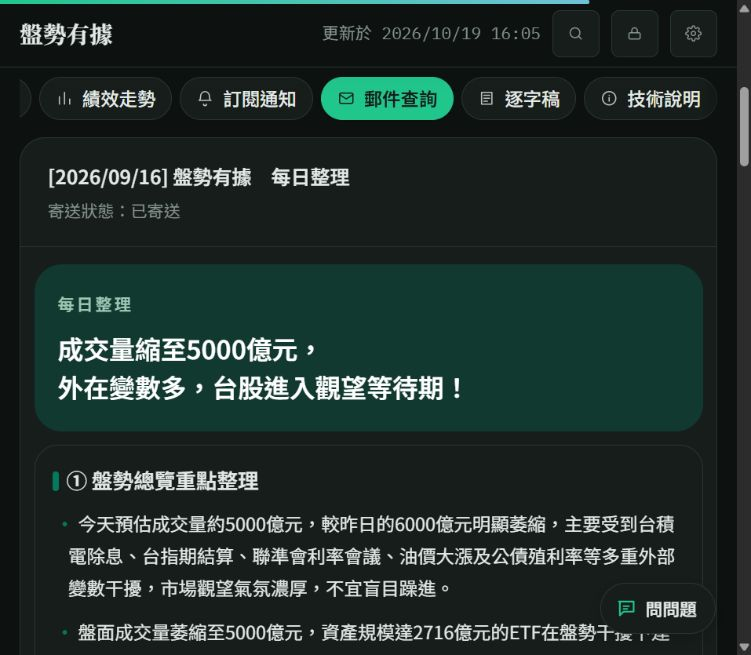
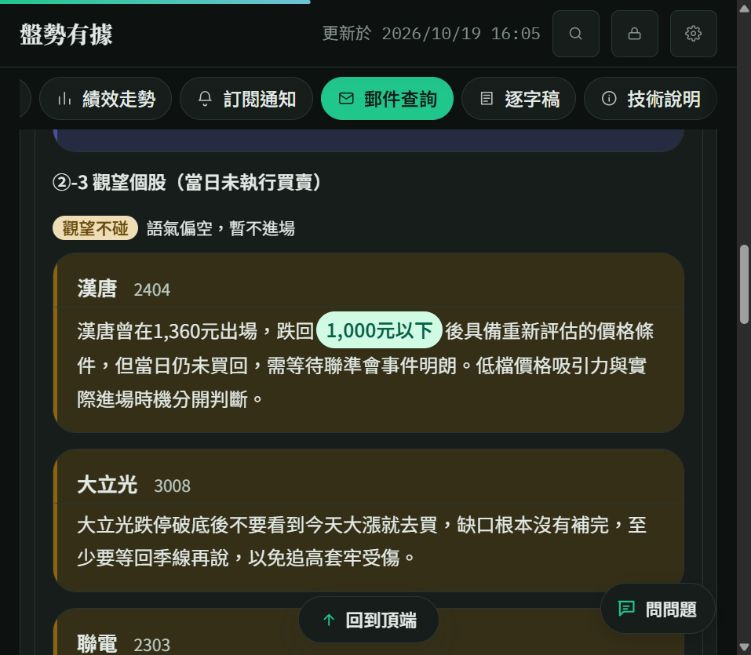
docs: record production source repairs and chapter acceptance evidence

diff --git a/public-site/gas-source/Tech.html b/public-site/gas-source/Tech.html
@@ -423,7 +423,7 @@
 <p>2026/10/19兩次重播都通過既有程式關卡，仍發現跨公司引用、把ETF資產規模掛到個股，以及漏收有原文支持的條件。因此沒有直接套用這兩輪生成結果；網站更新另走來源綁定、備份與讀回流程。</p>
 <ul class="quality-checks"><li><svg aria-hidden="true" viewbox="0 0 24 24"><path d="M5 12l4 4L19 6" fill="none" stroke="currentColor" stroke-width="2"></path><circle cx="12" cy="12" fill="none" r="10" stroke="currentColor" stroke-width="1.5"></circle></svg><span><b>已落實：新舊資料共用分類邊界</b>今天已買、歷史賣出、剩餘部位及目前能否進場分開；只使用目標日當時可取得的資訊。沒有答案時先建立待覆核參考，不冒稱人類金標。</span></li><li><svg aria-hidden="true" viewbox="0 0 24 24"><path d="M5 12l4 4L19 6" fill="none" stroke="currentColor" stroke-width="2"></path><circle cx="12" cy="12" fill="none" r="10" stroke="currentColor" stroke-width="1.5"></circle></svg><span><b>已驗證：修復本身可以追查</b>這次9/23修正5筆、9/16修正7筆，先備份，再按原稿與舊值指紋更新；通知交易與寄送帳本不變。</span></li><li><svg aria-hidden="true" viewbox="0 0 24 24"><path d="M5 12l4 4L19 6" fill="none" stroke="currentColor" stroke-width="2"></path><circle cx="12" cy="12" fill="none" r="10" stroke="currentColor" stroke-width="1.5"></circle></svg><span><b>仍需改善：每則主張的公司歸屬</b>引句、數字或股名在全文出現，仍不足以證明它們屬於同一檔。未通過保留日測試的流程候選不合併；來源修復不能算成自動分類準確率。</span></li></ul>
 <p class="quality-note">歷史資料可以回歸測試，也可以更正已發布的錯誤；若分類政策已變，保留原標註版本與變更理由，不把新答案倒灌成舊測試本來就正確。已寄出的郵件是當時快照，更新網站不會自動重寄。</p>
-<div class="src-cards"><div class="src-cards-row"><a class="src-card" data-source-kind="執行紀錄" href="https://github.com/Lee200202/Stock/actions/runs/39220214012" rel="noopener" target="_blank"><svg aria-hidden="true" class="source-icon" viewbox="0 0 24 24"><path d="M6 3h8l4 4v14H6zM14 3v4h4M9 12h6M9 16h4" fill="none" stroke="currentColor" stroke-width="1.8"></path></svg><span class="src-txt"><b>9/23唯讀模型重播</b><small>執行紀錄 · github.com</small></span><span aria-hidden="true" class="source-go">↗</span></a><a class="src-card" data-source-kind="執行紀錄" href="https://github.com/Lee200202/Stock/actions/runs/39220579304" rel="noopener" target="_blank"><svg aria-hidden="true" class="source-icon" viewbox="0 0 24 24"><path d="M6 3h8l4 4v14H6zM14 3v4h4M9 12h6M9 16h4" fill="none" stroke="currentColor" stroke-width="1.8"></path></svg><span class="src-txt"><b>9/16唯讀模型重播</b><small>執行紀錄 · github.com</small></span><span aria-hidden="true" class="source-go">↗</span></a><a class="src-card" data-source-kind="文件" href="https://github.com/Lee200202/Stock/blob/main/docs/stock-skills/evaluation/2026-10-19-annotation-guide/測試差異與判斷依據.md" rel="noopener" target="_blank"><svg aria-hidden="true" class="source-icon" viewbox="0 0 24 24"><path d="M6 3h8l4 4v14H6zM14 3v4h4M9 12h6M9 16h4" fill="none" stroke="currentColor" stroke-width="1.8"></path></svg><span class="src-txt"><b>判斷標準與實測差異</b><small>文件 · github.com</small></span><span aria-hidden="true" class="source-go">↗</span></a><a class="src-card" data-source-kind="執行紀錄" href="https://github.com/Lee200202/Stock/actions/runs/39221497539" rel="noopener" target="_blank"><svg aria-hidden="true" class="source-icon" viewbox="0 0 24 24"><path d="M6 3h8l4 4v14H6zM14 3v4h4M9 12h6M9 16h4" fill="none" stroke="currentColor" stroke-width="1.8"></path></svg><span class="src-txt"><b>兩日來源修正與驗收</b><small>執行紀錄 · github.com</small></span><span aria-hidden="true" class="source-go">↗</span></a></div></div><nav aria-label="章節前後導覽" class="book-pager"><a data-book-link="" href="#tech-public-notes"><span>上一章</span><b>公開說明與核對</b></a><button aria-haspopup="dialog" data-open-contents="" type="button">第15／20章 · 目錄</button><a data-book-link="" href="#tech-transcript-progress"><span>下一章</span><b>原稿版本與續跑</b></a></nav></section><section class="tech-section book-chapter" data-chapter="16" id="tech-transcript-progress"><header class="book-heading"><p class="book-eyebrow">16 / 20　原稿版本與續跑</p><h2 data-content-id="tc-0397" data-toc="原稿版本與續跑" id="book-title-16" tabindex="-1">新稿來了，舊工單會不會蓋回去？</h2></header><figure class="book-stage" data-scene="version"><button aria-haspopup="dialog" aria-label="放大圖解：原稿版本與續跑" class="book-visual-open" data-art="tech-transcript-progress" type="button"><svg aria-label="原稿指紋與工作進度綁定，舊工單不能覆蓋新稿" class="book-art" data-illustration="bespoke" data-mobile-viewbox="0 0 480 1000" role="img" viewbox="0 0 960 650" xmlns="http://www.w3.org/2000/svg"><rect fill="#e6eee7" height="650" rx="26" width="960"></rect><path d="M230 170Q350 170 433 280" data-book-path="0" data-mobile-d="M230 140H450V320Q450 350 320 350" fill="none" stroke="#54836a" stroke-dasharray="7 8" stroke-width="3"></path><path d="M550 280Q700 170 740 170" data-book-path="1" data-mobile-d="M230 440H25V640Q25 670 150 670" fill="none" stroke="#54836a" stroke-dasharray="7 8" stroke-width="3"></path><g data-book-node="0" data-mobile-transform="translate(140,140)" transform="translate(170,170)"><path class="bk-node-bg" d="M-58-77H28L60-45V77H-58Z" fill="#f9fcf9" stroke="#286947" stroke-width="3"></path><path d="M28-77v33h32M-35-20h69M-35 5h69M-35 30h69M-35 55h42" fill="none" stroke="#286947" stroke-linecap="round" stroke-linejoin="round" stroke-width="3"></path><text fill="#16462e" font-family="system-ui,sans-serif" font-size="25" text-anchor="middle" x="0" y="112">原稿版本 A</text><text fill="#37634b" font-family="system-ui,sans-serif" font-size="21" text-anchor="middle" x="0" y="148">保存來源指紋</text></g><g data-book-node="1" data-mobile-transform="translate(320,440)" transform="translate(490,330)"><rect class="bk-node-bg" fill="#f9fcf9" height="79" rx="14" stroke="#286947" stroke-width="3" width="114" x="-57" y="-5"></rect><path d="M-34-5v-31a34 34 0 0 1 68 0v31M0 20v27" fill="none" stroke="#286947" stroke-linecap="round" stroke-linejoin="round" stroke-width="3"></path><text fill="#16462e" font-family="system-ui,sans-serif" font-size="25" text-anchor="middle" x="0" y="112">寫入前再比對</text><text fill="#37634b" font-family="system-ui,sans-serif" font-size="21" text-anchor="middle" x="0" y="148">版本不同就停止覆寫</text></g><g data-book-node="2" data-mobile-transform="translate(150,760)" transform="translate(800,170)"><path class="bk-node-bg" d="M-58-77H28L60-45V77H-58Z" fill="#f9fcf9" stroke="#286947" stroke-width="3"></path><path d="M28-77v33h32M-35-20h69M-35 5h69M-35 30h69M-35 55h42" fill="none" stroke="#286947" stroke-linecap="round" stroke-linejoin="round" stroke-width="3"></path><text fill="#16462e" font-family="system-ui,sans-serif" font-size="25" text-anchor="middle" x="0" y="112">新版原稿 B</text><text fill="#37634b" font-family="system-ui,sans-serif" font-size="21" text-anchor="middle" x="0" y="148">使用自己的進度</text></g><circle class="book-packet" fill="#bd5934" opacity="0" r="9" stroke="white" stroke-width="3"></circle></svg><span class="book-enlarge">放大圖解 <svg aria-hidden="true" viewbox="0 0 24 24"><path d="M12 5v14M5 12h14" fill="none" stroke="currentColor" stroke-width="2"></path></svg></span></button><figcaption><b>原稿指紋不一樣，舊結果不能寫回</b><ol class="book-scene-key"><li>原稿 A</li><li>檢查點</li><li>原稿 B</li></ol><div class="book-motion" hidden=""><button data-book-pause="" type="button">暫停圖解</button><button data-book-replay="" type="button">再播圖解</button></div></figcaption></figure><span class="book-alias" id="toc-10"></span>
+<div class="src-cards"><div class="src-cards-row"><a class="src-card" data-source-kind="執行紀錄" href="https://github.com/Lee200202/Stock/actions/runs/39220214012" rel="noopener" target="_blank"><svg aria-hidden="true" class="source-icon" viewbox="0 0 24 24"><path d="M6 3h8l4 4v14H6zM14 3v4h4M9 12h6M9 16h4" fill="none" stroke="currentColor" stroke-width="1.8"></path></svg><span class="src-txt"><b>9/23唯讀模型重播</b><small>執行紀錄 · github.com</small></span><span aria-hidden="true" class="source-go">↗</span></a><a class="src-card" data-source-kind="執行紀錄" href="https://github.com/Lee200202/Stock/actions/runs/39220579304" rel="noopener" target="_blank"><svg aria-hidden="true" class="source-icon" viewbox="0 0 24 24"><path d="M6 3h8l4 4v14H6zM14 3v4h4M9 12h6M9 16h4" fill="none" stroke="currentColor" stroke-width="1.8"></path></svg><span class="src-txt"><b>9/16唯讀模型重播</b><small>執行紀錄 · github.com</small></span><span aria-hidden="true" class="source-go">↗</span></a><a class="src-card" data-source-kind="文件" href="https://github.com/Lee200202/Stock/blob/main/docs/stock-skills/evaluation/2026-10-19-annotation-guide/測試差異與判斷依據.md" rel="noopener" target="_blank"><svg aria-hidden="true" class="source-icon" viewbox="0 0 24 24"><path d="M6 3h8l4 4v14H6zM14 3v4h4M9 12h6M9 16h4" fill="none" stroke="currentColor" stroke-width="1.8"></path></svg><span class="src-txt"><b>判斷標準與實測差異</b><small>文件 · github.com</small></span><span aria-hidden="true" class="source-go">↗</span></a><a class="src-card" data-source-kind="執行紀錄" href="https://github.com/Lee200202/Stock/actions/runs/39221497539" rel="noopener" target="_blank"><svg aria-hidden="true" class="source-icon" viewbox="0 0 24 24"><path d="M6 3h8l4 4v14H6zM14 3v4h4M9 12h6M9 16h4" fill="none" stroke="currentColor" stroke-width="1.8"></path></svg><span class="src-txt"><b>9/16來源修正與驗收</b><small>執行紀錄 · github.com</small></span><span aria-hidden="true" class="source-go">↗</span></a></div></div><nav aria-label="章節前後導覽" class="book-pager"><a data-book-link="" href="#tech-public-notes"><span>上一章</span><b>公開說明與核對</b></a><button aria-haspopup="dialog" data-open-contents="" type="button">第15／20章 · 目錄</button><a data-book-link="" href="#tech-transcript-progress"><span>下一章</span><b>原稿版本與續跑</b></a></nav></section><section class="tech-section book-chapter" data-chapter="16" id="tech-transcript-progress"><header class="book-heading"><p class="book-eyebrow">16 / 20　原稿版本與續跑</p><h2 data-content-id="tc-0397" data-toc="原稿版本與續跑" id="book-title-16" tabindex="-1">新稿來了，舊工單會不會蓋回去？</h2></header><figure class="book-stage" data-scene="version"><button aria-haspopup="dialog" aria-label="放大圖解：原稿版本與續跑" class="book-visual-open" data-art="tech-transcript-progress" type="button"><svg aria-label="原稿指紋與工作進度綁定，舊工單不能覆蓋新稿" class="book-art" data-illustration="bespoke" data-mobile-viewbox="0 0 480 1000" role="img" viewbox="0 0 960 650" xmlns="http://www.w3.org/2000/svg"><rect fill="#e6eee7" height="650" rx="26" width="960"></rect><path d="M230 170Q350 170 433 280" data-book-path="0" data-mobile-d="M230 140H450V320Q450 350 320 350" fill="none" stroke="#54836a" stroke-dasharray="7 8" stroke-width="3"></path><path d="M550 280Q700 170 740 170" data-book-path="1" data-mobile-d="M230 440H25V640Q25 670 150 670" fill="none" stroke="#54836a" stroke-dasharray="7 8" stroke-width="3"></path><g data-book-node="0" data-mobile-transform="translate(140,140)" transform="translate(170,170)"><path class="bk-node-bg" d="M-58-77H28L60-45V77H-58Z" fill="#f9fcf9" stroke="#286947" stroke-width="3"></path><path d="M28-77v33h32M-35-20h69M-35 5h69M-35 30h69M-35 55h42" fill="none" stroke="#286947" stroke-linecap="round" stroke-linejoin="round" stroke-width="3"></path><text fill="#16462e" font-family="system-ui,sans-serif" font-size="25" text-anchor="middle" x="0" y="112">原稿版本 A</text><text fill="#37634b" font-family="system-ui,sans-serif" font-size="21" text-anchor="middle" x="0" y="148">保存來源指紋</text></g><g data-book-node="1" data-mobile-transform="translate(320,440)" transform="translate(490,330)"><rect class="bk-node-bg" fill="#f9fcf9" height="79" rx="14" stroke="#286947" stroke-width="3" width="114" x="-57" y="-5"></rect><path d="M-34-5v-31a34 34 0 0 1 68 0v31M0 20v27" fill="none" stroke="#286947" stroke-linecap="round" stroke-linejoin="round" stroke-width="3"></path><text fill="#16462e" font-family="system-ui,sans-serif" font-size="25" text-anchor="middle" x="0" y="112">寫入前再比對</text><text fill="#37634b" font-family="system-ui,sans-serif" font-size="21" text-anchor="middle" x="0" y="148">版本不同就停止覆寫</text></g><g data-book-node="2" data-mobile-transform="translate(150,760)" transform="translate(800,170)"><path class="bk-node-bg" d="M-58-77H28L60-45V77H-58Z" fill="#f9fcf9" stroke="#286947" stroke-width="3"></path><path d="M28-77v33h32M-35-20h69M-35 5h69M-35 30h69M-35 55h42" fill="none" stroke="#286947" stroke-linecap="round" stroke-linejoin="round" stroke-width="3"></path><text fill="#16462e" font-family="system-ui,sans-serif" font-size="25" text-anchor="middle" x="0" y="112">新版原稿 B</text><text fill="#37634b" font-family="system-ui,sans-serif" font-size="21" text-anchor="middle" x="0" y="148">使用自己的進度</text></g><circle class="book-packet" fill="#bd5934" opacity="0" r="9" stroke="white" stroke-width="3"></circle></svg><span class="book-enlarge">放大圖解 <svg aria-hidden="true" viewbox="0 0 24 24"><path d="M12 5v14M5 12h14" fill="none" stroke="currentColor" stroke-width="2"></path></svg></span></button><figcaption><b>原稿指紋不一樣，舊結果不能寫回</b><ol class="book-scene-key"><li>原稿 A</li><li>檢查點</li><li>原稿 B</li></ol><div class="book-motion" hidden=""><button data-book-pause="" type="button">暫停圖解</button><button data-book-replay="" type="button">再播圖解</button></div></figcaption></figure><span class="book-alias" id="toc-10"></span>
 <p data-content-id="tc-0398">每次讀原稿先記下<mark class="hl">指紋</mark>（整份內容算出的 SHA-256），寫回前再讀一次比對。選一個情況，看原稿、潤飾、稽核、文章、寄送與背景績效各自停在哪裡。</p>
 <div class="tech-lab tech-tx-lab" data-tx-lab="">
 <p class="tech-demo-h" data-content-id="tc-0399">選一個情況<span class="tech-tag">示意，不是即時監控</span></p>

diff --git a/docs/stock-skills/evaluation/2026-10-19-annotation-guide/交付與正式驗收.md b/docs/stock-skills/evaluation/2026-10-19-annotation-guide/交付與正式驗收.md
@@ -36,4 +36,16 @@
 
 來源修復已完成，通用分類／說明流程尚不能保證不再漏收或幻覺；本輪沒有以修正後的網站當模型品質證明。可回退前台至9de9ef5、原GAS部署至493；程式回退不還原資料，資料需用本次私人備份與修正收據處理。下一筆新稿的端到端品質不作預先通過。
 
-正式部署版本、Pages執行與瀏覽器證據於發布後追加。
+## 正式發布及限制
+
+- 章節實作commit 3063500，Pages執行39262707675成功；實際瀏覽器已操作歷史模式、股利案例及再播，圖解與說明同步改變。正式站24組版面及互動檢查通過；無JS為本機驗收，正式測試沒有停用JS。
+- 原GAS編輯器已同步；重新pull比對41份Git追蹤HTML/GS檔，differs與missing均空。保留雲端額外檔與權限，沒有安裝觸發器。
+- 已建立494版，更新原部署時Google拒絕：Only users in the same domain as the script owner may deploy this script。原部署仍493，ping回2026-10-18-usage-analytics-v190r4；不能宣稱原exec已更新。
+- 原Web App實際瀏覽器被Google轉到/u/1並顯示「目前無法開啟這個檔案」，其視覺沒有驗過。Pages測試不替代它。
+- 來源卡最後一張的標題明確改為9/16，以免把單日apply連結誤寫成兩天全部證據；兩日證據在本文件及正式資料讀回.json。
+
+![正式頁的歷史資料診斷流程](新舊資料診斷-正式畫面.png)
+
+![正式頁1440px圖解](新舊資料診斷-1440.png)
+
+![正式頁390px圖解](新舊資料診斷-390.png)
